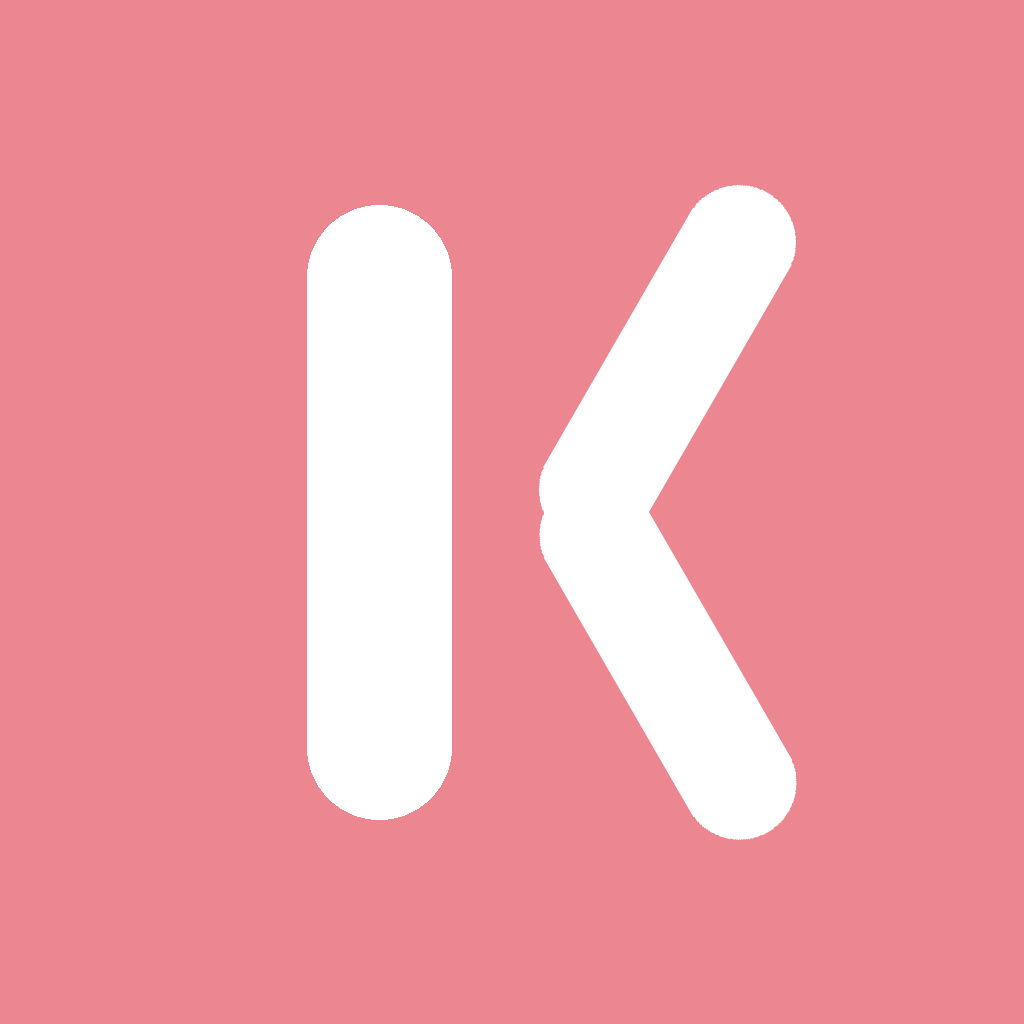
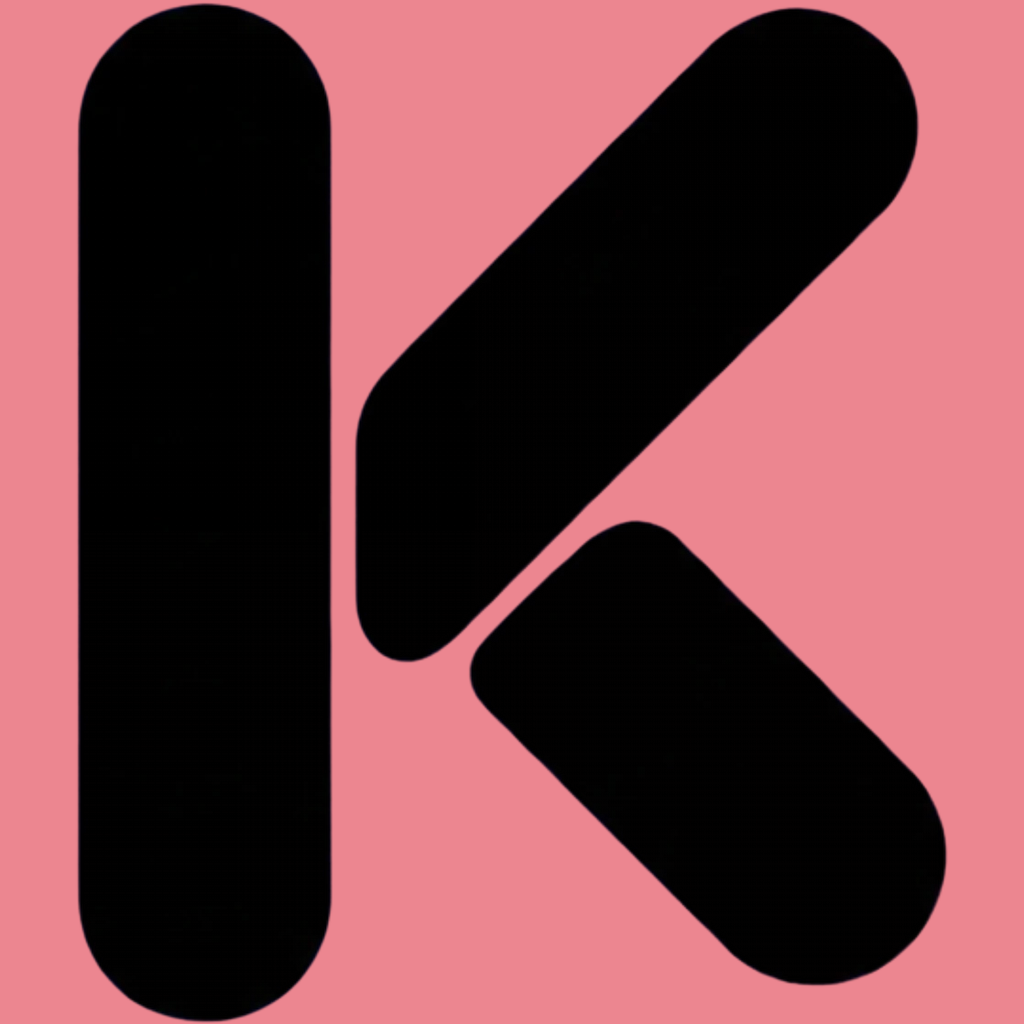
## Build 2.13 (69) — 4 corrections en une passe
### 1. Icône d'app — TES fichiers, aucune re-génération
- Source utilisée : **`Logo Couleur Ec8690-3.webp`** (2000×2000, fournie ci-dessus)
- Redimensionnée aux 14 tailles iOS (20…1024) et posée dans `Assets.xcassets/AppIcon.appiconset/`
- Copie marketing 1024×1024 dans `public/kolo-app-icon-1024.png`
- **Aucun redraw**, aucun SVG maison — juste rescale Lanczos du fichier source

### 2. Logo K noir standalone — TON fichier
- Source : **`PRESENTATION REFONTE-2.webp`** (K noir 2000×1125)
- Extrait, recadré carré (marge 8 %), sauvé aux 3 tailles standard dans `public/`:
  - `kolo-mark-black-128.png`, `-256.png`, `-512.png`
- **Écran de connexion `V2AuthPage.js`** : le SVG inline « moche » est supprimé, remplacé par `<img src="/kolo-mark-black-256.png" width=64 height=64 />`

### 3. MinimumOSVersion 14.0 → 15.0
Alerte Apple 90068 réglée :
- `project.pbxproj` : `IPHONEOS_DEPLOYMENT_TARGET = 15.0` (4 occurrences Debug + Release)
- `Podfile` : `platform :ios, '15.0'`
- Le test garde-fou `test_podfile_ios_platform_compatible_with_capacitor_major` valide toujours (Capacitor 5 → iOS 13+, OK avec 15.0)

### 4. Version bumpée : 2.12 (68) → **2.13 (69)**
Pour rendre visible dans TestFlight qu'il s'agit d'une nouvelle version.

### ⚠ Le vrai bug qui fait que tu vois toujours l'ancienne app
[…]

diff --git a/frontend/src/v2/pages/V2AuthPage.js b/frontend/src/v2/pages/V2AuthPage.js
@@ -80,30 +80,16 @@ export default function V2AuthPage({ mode = 'login' }) {
         }}
       >
         <div style={{ width: '100%', maxWidth: 380 }}>
-          {/* Logo KOLO — SVG inline noir sur fond lilas B1 */}
+          {/* Logo K noir — asset fourni (kolo-mark-black-256.png) */}
           <div style={{ textAlign: 'center', marginBottom: 32 }}>
-            <svg
-              width="64"
-              height="64"
-              viewBox="0 0 100 100"
-              xmlns="http://www.w3.org/2000/svg"
+            <img
+              src="/kolo-mark-black-256.png"
+              alt="KOLO"
+              width={64}
+              height={64}
               style={{ display: 'block', margin: '0 auto 16px' }}
               data-testid="auth-logo"
-              aria-label="KOLO"
-            >
-              {/* barre verticale */}
-              <rect x="18" y="12" width="18" height="76" rx="9" fill="var(--b1-text)" />
-              {/* branche haute droite */}
-              <rect
-                x="50" y="12" width="18" height="52" rx="9" fill="var(--b1-text)"
-                transform="rotate(30 59 38)"
-              />
-              {/* branche basse droite */}
-              <rect
-                x="50" y="36" width="18" height="52" rx="9" fill="var(--b1-text)"
-                transform="rotate(-30 59 62)"
-              />
-            </svg>
+            />
             <div className="b1-lead" style={{ marginTop: 0 }}>
               {b1t('auth.tagline')}
             </div>
